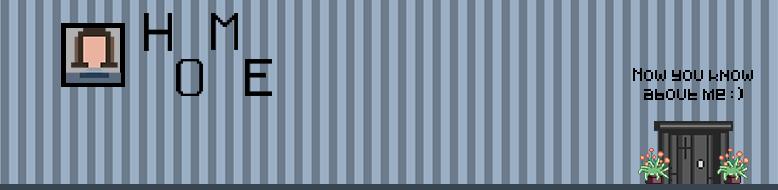
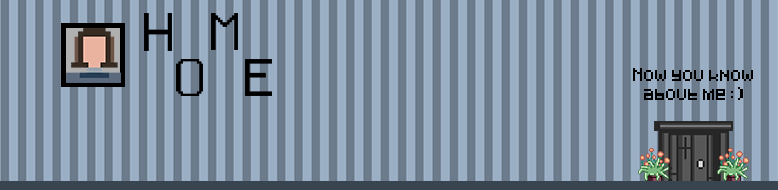
Responsive font size

Changed region(s): [[0.0, 0.9474, 1.0, 0.9737]]

diff --git a/src/components/Projects/Projects.css b/src/components/Projects/Projects.css
@@ -8,10 +8,9 @@
 
 #Projects button {
   background-color: #5a5b6b00;
-  font-size: 3vw;
   color: #ffffff00;
-  width: 6vw;
-  height: 6vw;
+  width: 6vh;
+  height: 6vh;
 }
 
 #Projects #left {
@@ -31,26 +30,17 @@
 }
 
 video {
-  width: 60vw;
-}
-
-.desktop {
-  display: block;
-  margin: auto;
+  width: 100%;
 }
 
 .desktopItems {
   display: grid;
-  grid-template-columns: 1fr 1fr;
-  justify-content: center;
-  align-items: center;
-  justify-items: center;
-  
-  padding: 0em 1em 0em 5em;
+  grid-template-columns: 1fr;
+  align-items: flex-end;
+  padding: 0em 1em 0em 1em;
 }
 
 .tags li {
-  font-size: 1em;
   display: inline-block;
   width: fit-content;
   padding: 0.5em 1em 0.5em 1em;
@@ -60,20 +50,34 @@ video {
 }
 
 .project {
-  width: 90%;
+  width: fit-content;
   height: fit-content;
+  margin: auto;
   padding: 2em;
+  margin-bottom: 1em;
   background-color: #FFDF78;
-}
-
-.project h2 {
-  font-size: 2em;
-}
-
-.project li {
-  font-size: 1em;
 }
 
 .desktop img {
   max-width: 100%;
+}
+
+@media (min-width: 1000px) {
+  .desktopItems { 
+    grid-template-columns: repeat(2, 1fr); 
+  } 
+  .desktop {
+    display: block;
+    margin: auto;
+  }
+  .desktopItems {
+    padding: 0em 1em 0em 5em;
+  }
+  #Projects button {
+    width: 6vw;
+    height: 6vw;
+  }
+  .project li {
+    font-size: 0.6em !important;
+  }
 }

diff --git a/src/components/Game/Game.css b/src/components/Game/Game.css
@@ -1,5 +1,5 @@
 .game { 
-  padding-top: 3em;
+  padding-top: 2em;
   padding-bottom: 3em;
   background-color: black;
 
@@ -19,7 +19,6 @@
 }
 
 .game h3 {
-  font-size: 0.5vw;
   color: #7babe6;
   visibility: hidden;
 }
@@ -64,24 +63,33 @@
 }
 
 .row {
-  height: 50%;
+  height: 100%;
   display: grid;
   grid-template-columns: repeat(1, 1fr);
-  padding-bottom: 1em;
+  padding-bottom: 0.2em;
   align-items: center;
   justify-content: center;
   justify-items: center;
   align-content: flex-end;
 }
 
+.row a {
+  font-size: 1.7em;
+}
+
 .house1 .row, .house2 .row, .house3 .row {
   padding-bottom: 0;
+  padding-top: 0em;
 }
 
 @media (min-width: 1000px) {
   .row { 
+    height: 50%;
     grid-template-columns: repeat(3, 1fr); 
-  }  
+  }
+  .row a {
+    font-size: 1em;
+  }
   .game h3 {
     visibility: visible;
   }
@@ -90,12 +98,6 @@
   }
   .sprite {
     visibility: visible !important;
-  }
-  .game h1 {
-    font-size: 5vh;
-  }
-  .game h3 {
-    font-size: 1.5vw;
   }
 }
 
@@ -109,12 +111,11 @@
 .section {
   font-family: 'VT323';
   color: #67A5C8;
-  font-size: 1.7rem;
   width: 50%;
   background-color: black;
   text-decoration: none;
   display:inline-block;
-  margin-bottom: 1em;
+  margin-top: 1em;
 }
 
 .section:hover {

diff --git a/src/index.css b/src/index.css
@@ -9,34 +9,42 @@
   cursor: url("./images/cursor.png"), pointer;
 }
 
+html {
+  font-size: calc(1em + 1vw)
+}
+
 h1 {
-  font-size: 3rem;
+  font-size: 1.8em;
   padding-bottom: 0.5em;
 }
 
 h2 {
-  font-size: 2rem;
+  font-size: 1.4em;
 }
 
 h3 {
-  font-size: 1rem;
+  font-size: 0.8em;
   padding-top: 1em;
   padding-bottom: 1em;
 }
 
 h4 {
-  padding-top: 1rem;
   font-size: 0.6em;
+  padding-top: 1rem;
 }
 
 p {
-  font-size: 1.3em;
+  font-size: 0.8em;
 }
 
-li {
+li:not(#hobbies #list) {
   padding: 0.2em;
-  font-size: 1.3rem;
+  font-size: 0.8em;
   list-style: none;
+}
+
+a:not(#link, .section, .project) {
+  font-size: 1em;
 }
 
 body::-webkit-scrollbar {

diff --git a/src/components/PersonalInfo/AboutMe.css b/src/components/PersonalInfo/AboutMe.css
@@ -19,6 +19,9 @@
   .info { 
     grid-template-columns: 1fr 1fr;
   }
+  .pair div {
+    font-size: 0.8em !important;
+  }
 }
 
 .frames img {
@@ -33,19 +36,21 @@
   width: 100%;
   padding: 0.2em;
 
-  font-size: 1.5em;
   border: 0.5em solid black;
   box-sizing:border-box;
 
   display: flex;
   align-items: center;
   justify-content: center;
+
+  
+  font-size: 1.4em;
 }
 
 
 #me {
   box-sizing:border-box;
-  border: 0.5em solid black;
+  border: 0.7em solid black;
 }
 
 #rotate {

diff --git a/src/components/ContactMe/ContactMe.css b/src/components/ContactMe/ContactMe.css
@@ -13,9 +13,8 @@
 }
 
 .Contact {
-  max-width: 40%;
+  max-width: 100%;
 }
-
 
 .final {
   max-width: 100%;
@@ -29,8 +28,14 @@
 
 #link {
   text-decoration: none;
-  font-size: 1.5em;
   color: black;
+  font-size: 2em;
+}
+
+@media (min-width: 1000px) {
+  #link {
+    font-size: 1em !important;
+  }
 }
 
 #link:hover {

diff --git a/webpack.config.js b/webpack.config.js
@@ -2,7 +2,7 @@ const HtmlWebpackPlugin = require('html-webpack-plugin')
 const path = require('path')
 
 module.exports = {
-  entry: './src/index.jsx',
+  entry: path.resolve(__dirname, './src/index.jsx'),
   output: {
     path: path.resolve(__dirname, './dist'),
     filename: 'main.js',

diff --git a/src/components/Hobbies/Hobbies.css b/src/components/Hobbies/Hobbies.css
@@ -11,6 +11,7 @@
     display: grid;
     justify-content: center;
     align-content: center;
+    font-size: 1.1em !important;
   }
 }
 
@@ -30,6 +31,8 @@
   text-align: center;
   background-color: #000000;
   color: white;
+  padding: 3em;
+  font-size: 1.7em;
 }
 
 #list h1 {

diff --git a/src/components/Skills/Skills.css b/src/components/Skills/Skills.css
@@ -7,6 +7,7 @@
 @media (min-width: 1000px) {
   .graphs { 
     grid-template-columns: repeat(4, 1fr); 
+    font-size: 0.5em;
   }
   .graph {
     width: 10vw !important;
